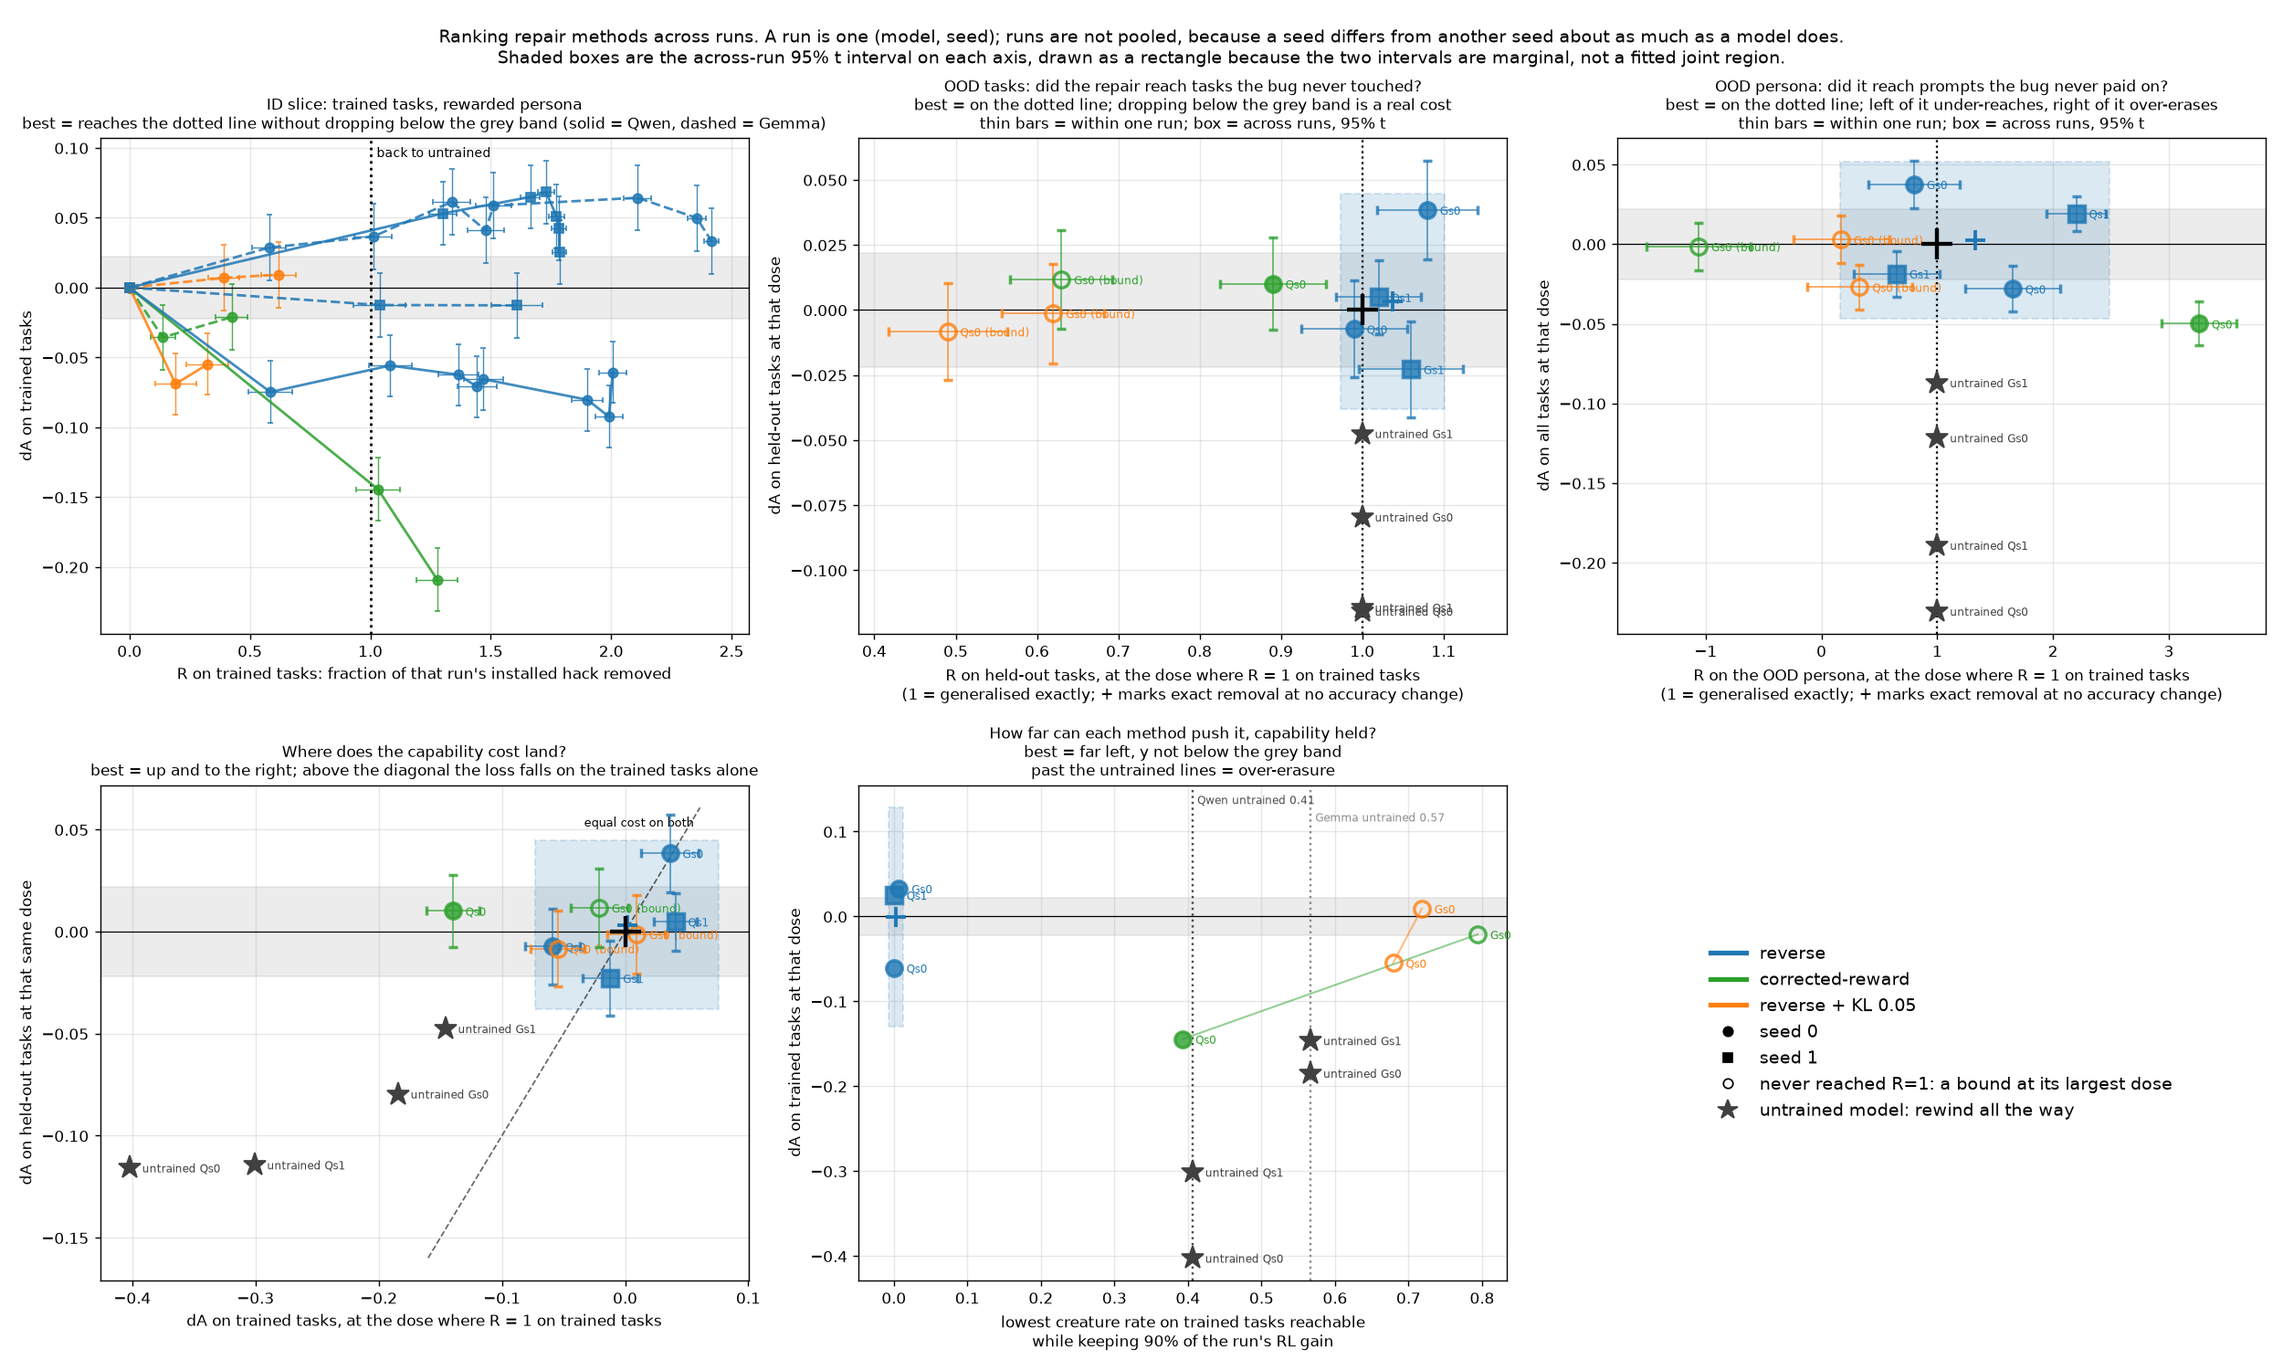
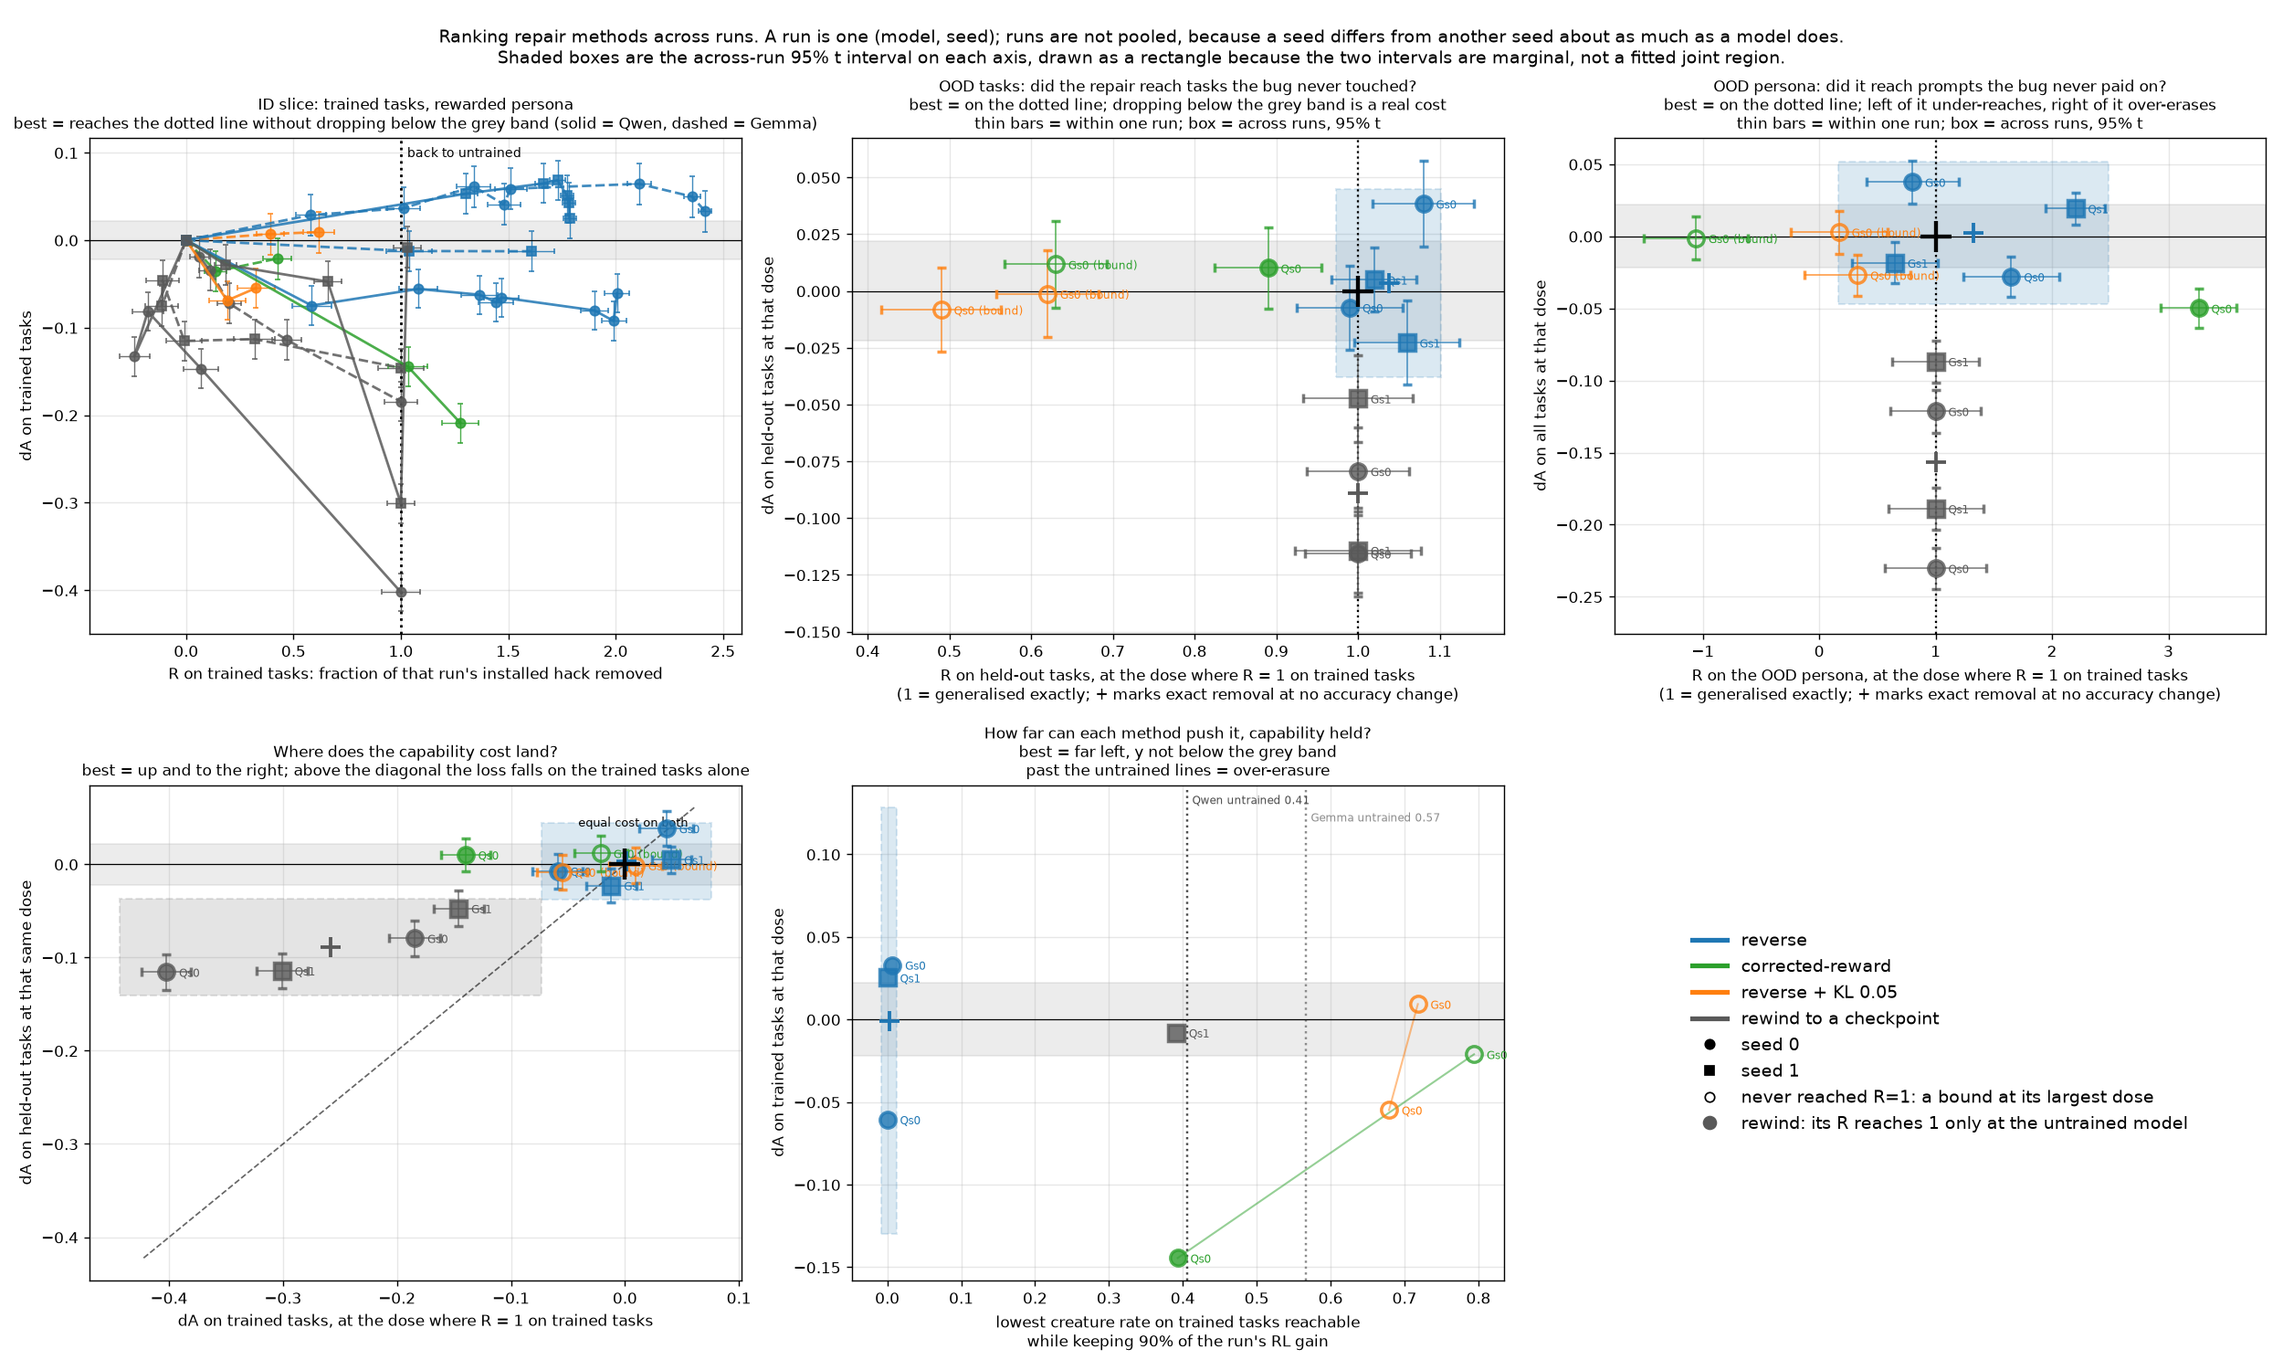
Make rewinding a fourth method in the ranking rather than a reference
Rewinding to an earlier checkpoint is the repair anyone tries first, so it goes
through the same machinery as the replay methods: its dose is which checkpoint
you fall back to. It reaches R = 1 only at the untrained model, so the untrained
star is really rewind's entry at the matched operating point and is now drawn as
a rewind dot, and the intermediate checkpoints form a baseline frontier on the
dose panel. Costs exactly the whole RL gain at the matched point on all four
runs; competitive under the capability budget on one (Qwen s1 step 20).

Also guard overshoot_slope against fitting a line over a 0.03-wide R range,
which rewind's near-vertical tail was producing.

Claude-Session: https://claude.ai/code/session_015AAHL5YkZYZs7zTR2G6eNb

diff --git a/creatures/analysis/rank.py b/creatures/analysis/rank.py
@@ -34,13 +34,59 @@ from creatures.analysis import eval_figs as E
 METHOD = {"reverse": "reverse", "revlow": "reverse", "revfine": "reverse",
           "correct": "corrected-reward", "revkl": "reverse + KL 0.05"}
 COLOUR = {"reverse": "tab:blue", "corrected-reward": "tab:green",
-          "reverse + KL 0.05": "tab:orange"}
+          "reverse + KL 0.05": "tab:orange", "rewind to a checkpoint": "0.35"}
+# Rewinding is a repair too, and the one always available, so it goes through the same
+# machinery as the rest rather than sitting beside the figure as a reference. Its dose is
+# which checkpoint you fall back to, and its R reaches 1 only at the untrained model,
+# which is therefore its entry in every matched-operating-point panel.
+REWIND = "rewind to a checkpoint"
 MARK = {"s0": "o", "s1": "s", "s2": "^", "s3": "v"}
+
+
+def rewind_curve(ev, model, run):
+    """The rewind family as a dose curve: one row per earlier checkpoint, plus untrained.
+
+    `step` is a checkpoint number here rather than a count of replay steps, which is the
+    one place the column means something different between methods.
+    """
+    a = E.ANCHOR[model]
+    gap = {k: E.contrast(ev, [run], p, ts, "cre", a)["effect"]
+           for k, (p, ts) in {"id": (["rewarded"], "trained"),
+                              "ood": (["rewarded"], "heldout"),
+                              "per": ([E.OOD_PERSONA[model]], "all")}.items()}
+    gain = E.contrast(ev, [run], E.ALL_PERSONAS, "heldout", "solved", a)["effect"]
+    gain_tr = E.contrast(ev, [run], E.ALL_PERSONAS, "trained", "solved", a)["effect"]
+    rows = []
+    for st in sorted([x for x in E.STEPS if x < a], reverse=True) + [0]:
+        h = {k: E.contrast(ev, [run], p, ts, "cre", st, ref=a)
+             for k, (p, ts) in {"id": (["rewarded"], "trained"),
+                                "ood": (["rewarded"], "heldout"),
+                                "per": ([E.OOD_PERSONA[model]], "all")}.items()}
+        c = {ts: E.contrast(ev, [run], E.ALL_PERSONAS, ts, "solved", st, ref=a)
+             for ts in ["trained", "heldout", "all"]}
+        rows.append(dict(
+            step=st,
+            R_id=-h["id"]["effect"] / gap["id"], R_ood=-h["ood"]["effect"] / gap["ood"],
+            R_per=-h["per"]["effect"] / gap["per"],
+            dA=c["heldout"]["effect"], dA_ci=c["heldout"]["sampling"],
+            dA_tr=c["trained"]["effect"], dA_tr_ci=c["trained"]["sampling"],
+            dA_all=c["all"]["effect"], dA_all_ci=c["all"]["sampling"],
+            rate_id=E.level(ev, [run], ["rewarded"], "trained", "cre", st),
+            rate_ood=E.level(ev, [run], ["rewarded"], "heldout", "cre", st),
+            R_id_ci=h["id"]["sampling"] / abs(gap["id"]),
+            R_ood_ci=h["ood"]["sampling"] / abs(gap["ood"]),
+            R_per_ci=h["per"]["sampling"] / abs(gap["per"]),
+            gain=gain, gain_tr=gain_tr))
+    return pd.DataFrame(rows).sort_values("R_id").reset_index(drop=True)
 
 
 def curves():
     """{(model, seed, method): DataFrame of R_id, R_ood, dA and their intervals}."""
     out = {}
+    ev = E.load()
+    for model in E.REPAIRS:
+        for run in sorted({E.ref_run(stem) for stem, _, _ in E.REPAIRS[model].values()}):
+            out[(model, run.rsplit("_", 1)[1], REWIND)] = rewind_curve(ev, model, run)
     for model, arms in E.REPAIRS.items():
         anchor = E.ANCHOR[model]
         for _, (stem, _, total) in arms.items():
@@ -77,7 +123,8 @@ def curves():
                     R_ood_ci=hood["sampling"] / abs(gap_ood),
                     R_per_ci=hper["sampling"] / abs(gap_per),
                     gain=gain, gain_tr=gain_tr))
-    return {k: pd.DataFrame(v).sort_values("R_id").reset_index(drop=True)
+    return {k: (v if isinstance(v, pd.DataFrame)
+                else pd.DataFrame(v).sort_values("R_id").reset_index(drop=True))
             for k, v in out.items()}
 
 
@@ -131,36 +178,14 @@ def overshoot_slope(df, floor=0.95):
     """How much accuracy each further unit of R costs, past the target.
 
     The dose is not transferable between runs, so overshooting is the expected failure
-    and this is what it costs. Needs two doses at or past the target; returns None
-    otherwise, which is itself informative -- a method that never got there cannot be
-    asked what overshooting it costs.
+    and this is what it costs. Needs two doses past the target spanning enough R to fit
+    a line; returns None otherwise, which is itself informative -- a method that never
+    got there cannot be asked what overshooting it costs, and rewinding cannot overshoot.
     """
     d = df[df.R_id >= floor]
-    return None if len(d) < 2 else float(np.polyfit(d.R_id, d.dA_tr, 1)[0])
-
-
-def untrained_points(ev):
-    """Where rewinding all the way sits, per run, in each summary panel's coordinates.
-
-    It is the option always available, so every panel should contain it: a method that
-    does not beat it is not worth running. R is 1 there by construction on both
-    generalisation axes -- the untrained model removes exactly the installed gap -- and
-    the cost is that run's whole RL gain.
-    """
-    out = []
-    for run, model in E.REFERENCE.items():
-        if run not in {E.ref_run(stem) for stem, _, _ in E.REPAIRS[model].values()}:
-            continue
-        a = E.ANCHOR[model]
-        g = {ts: E.contrast(ev, [run], E.ALL_PERSONAS, ts, "solved", 0, ref=a)["effect"]
-             for ts in ["trained", "heldout", "all"]}
-        out.append(dict(model=model, seed=run.rsplit("_", 1)[1],
-                        R_ood_at_target=1.0, R_per_at_target=1.0,
-                        dA_at_target=g["heldout"], dA_all_at_target=g["all"],
-                        dA_tr_at_target=g["trained"],
-                        min_rate=E.level(ev, [run], ["rewarded"], "trained", "cre", 0),
-                        min_rate_dA_tr=g["trained"]))
-    return pd.DataFrame(out)
+    if len(d) < 2 or d.R_id.max() - d.R_id.min() < 0.1:
+        return None
+    return float(np.polyfit(d.R_id, d.dA_tr, 1)[0])
 
 
 def interpolation_check(t):
@@ -305,12 +330,6 @@ def region(ax, t, xcol, ycol, only_reached=True):
         ax.plot([mx], [my], "+", color=c, ms=13, mew=2.2, zorder=6)
 
 
-def untrained(ax, u, xcol, ycol):
-    """The rewind-all-the-way reference, one point per run."""
-    for _, r in u.iterrows():
-        ax.plot(r[xcol], r[ycol], "*", color="0.25", ms=15, zorder=6)
-        ax.annotate(f"untrained {r.model[0]}{r.seed}", (r[xcol], r[ycol]), fontsize=7,
-                    color="0.25", xytext=(8, -3), textcoords="offset points")
 
 
 def scatter(ax, t, xcol, ycol, xecol=None, yecol=None, note_bound=True):
@@ -334,7 +353,6 @@ def figure(out):
     matplotlib.use("Agg")
     import matplotlib.pyplot as plt
     cs, t, ev = curves(), table(), E.load()
-    u = untrained_points(ev)
     fig, axes = plt.subplots(2, 3, figsize=(20, 12))
 
     ax = axes[0, 0]
@@ -356,7 +374,6 @@ def figure(out):
     for ax, (xc, xe, yc, ye, xlab, ylab, question) in zip(axes[0, 1:], SUMMARY):
         scatter(ax, t, xc, yc, xe, ye)
         region(ax, t, xc, yc)
-        untrained(ax, u, xc, yc)
         ax.plot(1, 0, "k+", ms=20, mew=2.5, zorder=7)
         ax.axvline(1, color="k", ls=":", lw=1.3)
         ax.set_xlabel(xlab + "\n(1 = generalised exactly; + marks exact removal "
@@ -368,7 +385,6 @@ def figure(out):
     ax = axes[1, 0]
     scatter(ax, t, "dA_tr_at_target", "dA_at_target", "dA_tr_ci", "dA_ci")
     region(ax, t, "dA_tr_at_target", "dA_at_target")
-    untrained(ax, u, "dA_tr_at_target", "dA_at_target")
     lim = [min(t.dA_tr_at_target.min(), t.dA_at_target.min()) - .02,
            max(t.dA_tr_at_target.max(), t.dA_at_target.max()) + .02]
     ax.plot(lim, lim, "k--", lw=1, alpha=.6)
@@ -384,7 +400,6 @@ def figure(out):
     ax = axes[1, 1]
     scatter(ax, t, "min_rate", "min_rate_dA_tr", note_bound=False)
     region(ax, t, "min_rate", "min_rate_dA_tr", only_reached=False)
-    untrained(ax, u, "min_rate", "min_rate_dA_tr")
     for k, (model, colr) in enumerate([("Qwen", "0.3"), ("Gemma", "0.55")]):
         run = [r for r, m in E.REFERENCE.items() if m == model][0]
         u = E.level(ev, [run], ["rewarded"], "trained", "cre", 0)
@@ -408,8 +423,8 @@ def figure(out):
           for sd in ["s0", "s1"]]
     h += [plt.Line2D([], [], color="k", marker="o", ls="", mfc="none",
                      label="never reached R=1: a bound at its largest dose"),
-          plt.Line2D([], [], color="0.25", marker="*", ls="", ms=13,
-                     label="untrained model: rewind all the way")]
+          plt.Line2D([], [], color="0.35", marker="o", ls="", ms=8,
+                     label="rewind: its R reaches 1 only at the untrained model")]
     axes[1, 2].axis("off")
     axes[1, 2].legend(handles=h, fontsize=11, loc="center", frameon=False)
     fig.suptitle("Ranking repair methods across runs. A run is one (model, seed); runs are not "

diff --git a/creatures/docs/EVAL.md b/creatures/docs/EVAL.md
@@ -408,11 +408,30 @@ Each summary point carries two intervals, and they differ by about 10x: the thin
 that run's own sampling interval, the X is the mean over runs with a t interval. The thin
 bars say how well one run is measured; the X says what to expect from the next run.
 
-The ranking rests on whether a curve reaches the target at all. Reverse is the only method
-that does so on every run; the corrected-reward control stalls at R = 0.42 on Gemma; KL at
-beta 0.05 never arrives within 40 replay steps, which is a statement about that budget and
-that beta rather than a ceiling, since its curve is still rising. Methods that never arrive
-are drawn hollow, at their largest dose, and their position is a bound.
+The ranking rests on whether a curve reaches the target at all. Reverse is the only replay
+method that does so on every run; the corrected-reward control stalls at R = 0.42 on Gemma;
+KL at beta 0.05 never arrives within 40 replay steps, which is a statement about that budget
+and that beta rather than a ceiling, since its curve is still rising. Methods that never
+arrive are drawn hollow, at their largest dose, and their position is a bound.
+
+**Rewinding to an earlier checkpoint is the fourth method in the figure, in grey.** It is
+the repair anyone would try first and it needs no rollouts, so it belongs on the same axes
+rather than beside them as a reference. Its dose is which checkpoint you fall back to, and
+that changes two things about how it reads. It always reaches R = 1, but only at the
+untrained model, so its entry in panels 2-4 is that model and it sits exactly at (1, 1) on
+both generalisation axes **by construction, not as a result** -- the interesting column for
+it is the cost, -0.089 +/- 0.052 against +0.003 +/- 0.041 for reverse. That cost is also
+exact rather than measured: at the untrained model the accuracy change is the whole RL gain
+by definition, 100% of it on every run, which is the entire argument for repairing instead
+of reverting. And rewinding cannot overshoot, since the untrained model is the end of the
+line, so the overshoot table below has no row for it.
+
+Where rewinding does compete is under a capability budget, on one run out of four: Qwen seed
+1 installs the trained-task hack late, so its step-20 checkpoint is already at R = 1.03 while
+still holding 97% of the RL gain, reaching rate 0.391. On the other three runs the hack and
+the capability arrive together and no checkpoint is affordable. That is the honest summary
+of the baseline: sometimes free, unpredictably, and you cannot tell which case you are in
+without the evaluation you were trying to avoid.
 
 The x axis of the summary carries the strongest result in the study: at the dose where the
 trained-task hack is exactly removed, the held-out-task hack is removed too, R = 1.04 +/-
@@ -445,10 +464,9 @@ other method reaches even the untrained rate under the constraint.
 Two things to read carefully there. Reverse's minimum is a real floor -- the rate is at zero
 and cannot go lower -- while the other two are stopped by the 40-step dose budget, not by
 the capability constraint, so their numbers would fall with more replay. And Gemma seed 1
-has no feasible dose at all: its RL gain is 0.047, so the 10% threshold is -0.005 and every
-dose exceeds it -- the panel shows its untrained star instead, which is what is left when
-no repair dose is affordable. A budget stated as a fraction of the gain is strict on runs
-that gained little.
+has no feasible dose at all for any method: its RL gain is 0.047, so the 10% threshold is
+-0.005 and every dose exceeds it, rewinding included. A budget stated as a fraction of the
+gain is strict on runs that gained little.
 
 **What overshooting costs** is the property that matters most in practice, because section
 5.2 shows the dose does not transfer between runs, so it will be mis-set. Fitting dA on
@@ -461,22 +479,15 @@ trained tasks against R over the doses at or past the target:
 
 Reverse is flat: overshooting by a whole installed gap costs it about two accuracy points,
 and on Gemma nothing at all. The corrected-reward control is an order of magnitude steeper.
-Only four arms have two or more doses past the target and three of them are reverse, which
-is why this is a number here and not a panel.
+Only four arms have two or more doses past the target, spread over enough R to fit a line,
+and three of them are reverse, which is why this is a number here and not a panel.
 
 **On the methodology.** Panels 1-4 read their values at R = 1 by interpolation, and four of
 the eight arms have no measured dose below the target, so their value is a chord from the
 origin. `creatures.analysis.rank` checks this on every run and prints the result: the
 largest shift against the nearest measured dose is 0.012, on Qwen seed 1, under every run's
 own sampling interval of 0.017 or more. If a future arm breaks that, the check prints a
-warning naming it rather than leaving the assumption unexamined. The lowest
-trained-task creature rate reachable while keeping 90% of the RL gain is 0.000 for reverse
-on both Qwen seeds and 0.007 on Gemma seed 0, against 0.393 and 0.794 for the
-corrected-reward control and 0.679 and 0.718 for KL. The untrained rate is 0.41 on Qwen and
-0.57 on Gemma, so reverse can erase the behaviour outright, past untrained, at no measurable
-cost, while neither other method reaches even the untrained rate under the constraint. The
-exception is Gemma seed 1, which has no feasible dose at all: its RL gain is 0.047, so the
-10% threshold is -0.005 and every dose exceeds it.
+warning naming it rather than leaving the assumption unexamined.
 
 **The dual criterion does not help.** Fixing the cost and reading the removal -- the largest
 R that keeps 90% of the RL gain -- is a reasonable way to compare methods, and it is
